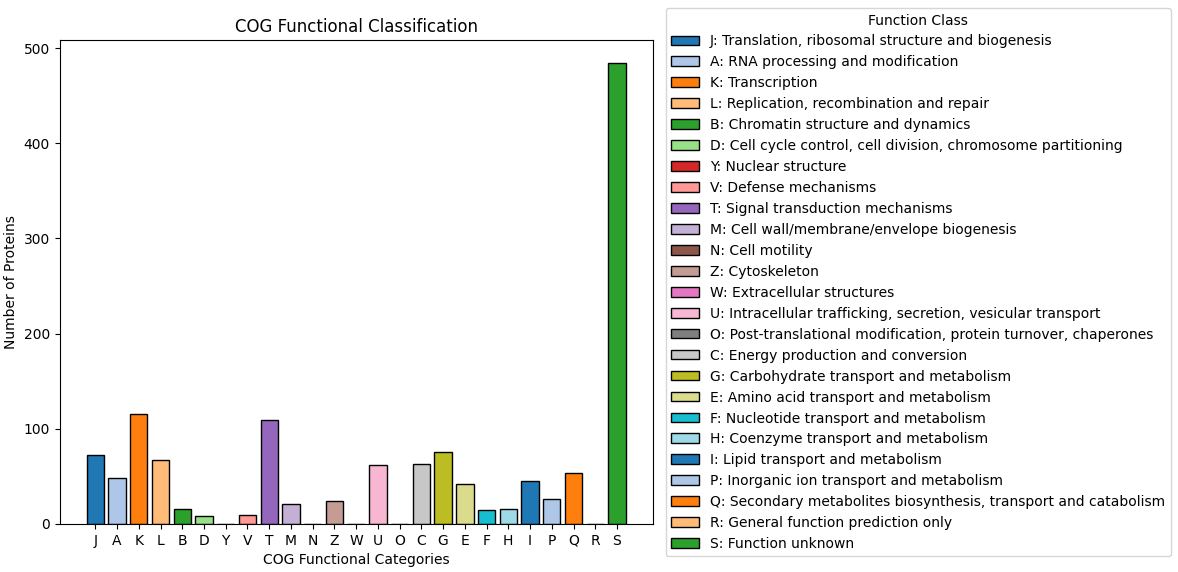
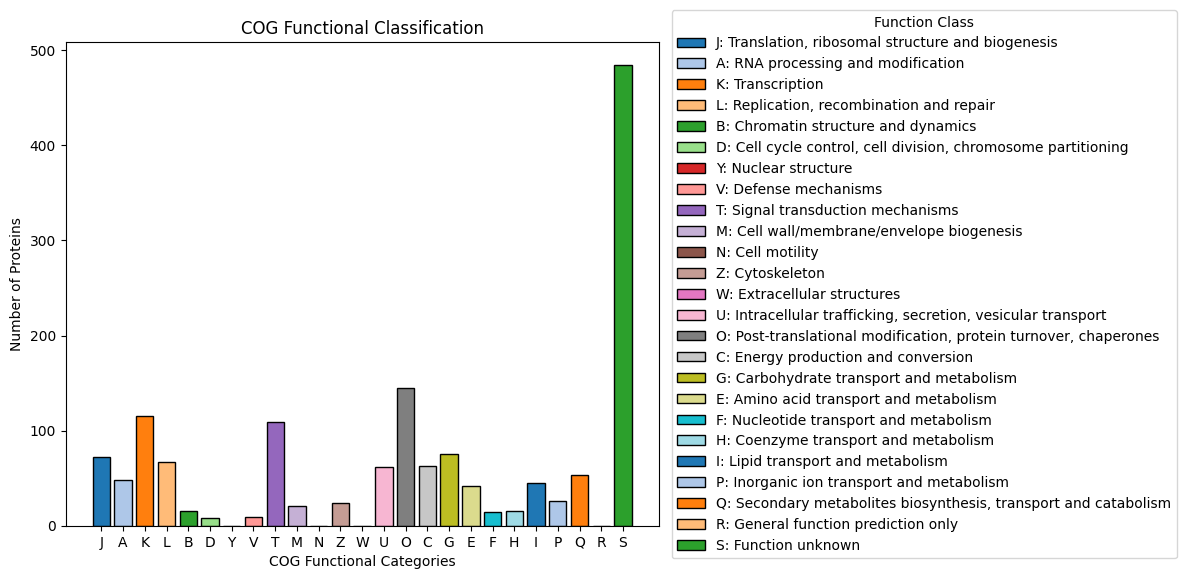
Fix cog classification plot

diff --git a/code/08_functional_annotation/cog_distribution.py b/code/08_functional_annotation/cog_distribution.py
@@ -44,7 +44,7 @@ cog_counts = {
     'Z': 24,
     'W': 0,
     'U': 62,
-    'O': 0,
+    'O': 145,
     'C': 63,
     'G': 75,
     'E': 42,
